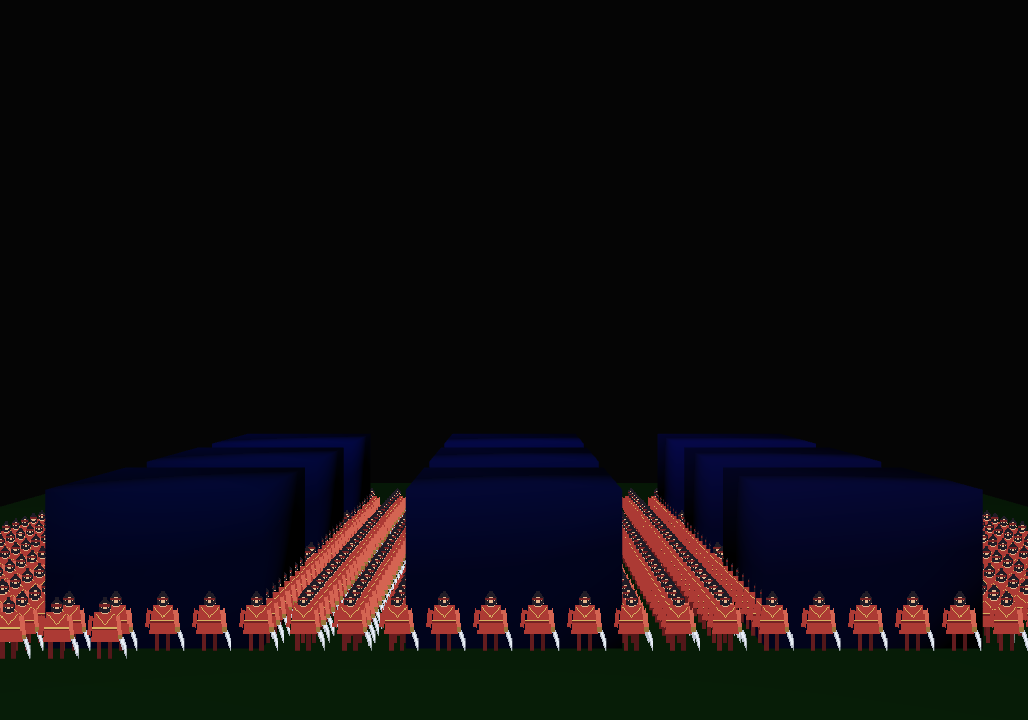
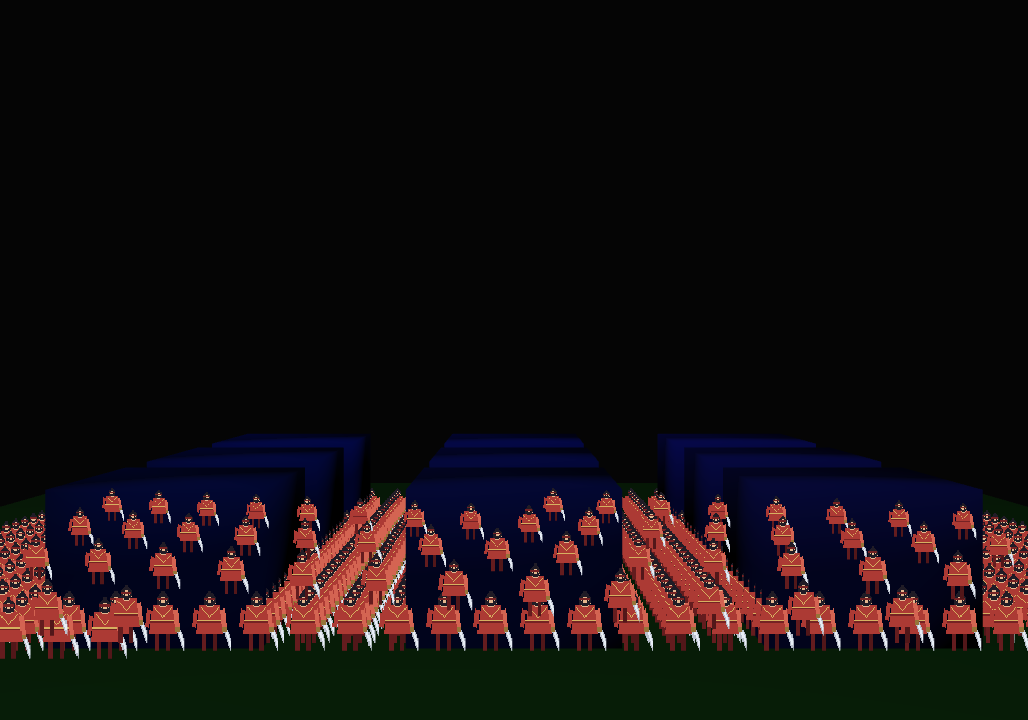
feat(hd2d): add Sprite3D foreground overlay and metrics
sorting_bias < 0 now routes Sprite3D items to a separate foreground batch drawn after the depth-tested pass with depth test/write disabled, so a physically farther foreground layer can cover a closer actor. Also expose extracted Sprite3D count through IBuiltinModules/FramePipeline so dse.metrics.get_sprite_count() reports the full workload. Desktop OpenGL/Vulkan foreground smoke and 1000-sprite perf verified; docs updated.

diff --git a/engine/render/sprite_batch_renderer.cpp b/engine/render/sprite_batch_renderer.cpp
@@ -230,7 +230,8 @@ PipelineHandle SpriteBatchRenderer::PsoForBlend(RhiDevice& device, unsigned int 
     return pso_alpha_;
 }
 
-PipelineHandle SpriteBatchRenderer::PsoForBlend3D(RhiDevice& device, unsigned int blend_mode) {
+PipelineHandle SpriteBatchRenderer::PsoForBlend3D(RhiDevice& device, unsigned int blend_mode,
+                                                  bool foreground) {
     auto make = [&](BlendFactor src, BlendFactor dst) {
         PipelineStateDesc desc{};
         desc.blend_enabled = true;
@@ -238,12 +239,30 @@ PipelineHandle SpriteBatchRenderer::PsoForBlend3D(RhiDevice& device, unsigned in
         desc.blend_dst = dst;
         desc.alpha_blend_src = src;
         desc.alpha_blend_dst = dst;
-        desc.depth_test_enabled = true;
-        desc.depth_write_enabled = true;
+        // Normal Sprite3D items participate in scene depth. Foreground items
+        // are an explicit overlay layer: depth test/write off so a physically
+        // farther canopy/roof can still cover a closer character, matching the
+        // "sorting_bias < 0 => foreground" design contract.
+        desc.depth_test_enabled = !foreground;
+        desc.depth_write_enabled = !foreground;
         desc.depth_func = CompareFunc::Less;
         desc.culling_enabled = false;
         return device.CreatePipelineState(desc);
     };
+    if (foreground) {
+        if (blend_mode == 1u) {  // additive
+            if (!pso3d_fg_additive_) pso3d_fg_additive_ = make(BlendFactor::SrcAlpha, BlendFactor::One);
+            return pso3d_fg_additive_;
+        }
+        if (blend_mode == 2u) {  // multiply
+            if (!pso3d_fg_multiply_) pso3d_fg_multiply_ = make(BlendFactor::DstColor, BlendFactor::Zero);
+            return pso3d_fg_multiply_;
+        }
+        if (!pso3d_fg_alpha_) {
+            pso3d_fg_alpha_ = make(BlendFactor::SrcAlpha, BlendFactor::OneMinusSrcAlpha);
+        }
+        return pso3d_fg_alpha_;
+    }
     if (blend_mode == 1u) {  // additive
         if (!pso3d_additive_) pso3d_additive_ = make(BlendFactor::SrcAlpha, BlendFactor::One);
         return pso3d_additive_;
@@ -259,7 +278,6 @@ PipelineHandle SpriteBatchRenderer::PsoForBlend3D(RhiDevice& device, unsigned in
     }
     return pso3d_alpha_;
 }
-
 void SpriteBatchRenderer::Draw(CommandBuffer& cmd, RhiDevice& device,
                                const std::vector<SpriteDrawItem>& items,
                                const glm::mat4& view, const glm::mat4& projection) {
@@ -402,7 +420,8 @@ void SpriteBatchRenderer::DrawSprite3D(CommandBuffer& cmd, RhiDevice& device,
                                        const std::vector<SpriteDrawItem>& items,
                                        const glm::mat4& view, const glm::mat4& projection,
                                        const glm::vec2& viewport_size,
-                                       const glm::vec3& camera_offset) {
+                                       const glm::vec3& camera_offset,
+                                       bool foreground) {
     if (items.empty()) return;
 
     ShaderHandle sprite_prog = device.GetBuiltinProgram(BuiltinProgram::Sprite3D);
@@ -500,7 +519,7 @@ void SpriteBatchRenderer::DrawSprite3D(CommandBuffer& cmd, RhiDevice& device,
     };
 
     for (const Batch3D& b : batches) {
-        const PipelineHandle pso = PsoForBlend3D(device, b.blend_mode);
+        const PipelineHandle pso = PsoForBlend3D(device, b.blend_mode, foreground);
         cmd.BindPipeline(device.GetGraphicsPipeline(pso, sprite_prog));
         cmd.BindUniformBuffer(0u, ubo);
         cmd.BindTexture(0u, b.texture, TextureDim::Tex2D);

diff --git a/engine/render/passes/sprite3d_pass.cpp b/engine/render/passes/sprite3d_pass.cpp
@@ -87,12 +87,26 @@ void Sprite3DPass::Render(CommandBuffer& cmd, const FrameContext& frame) {
         return a.order_in_layer < b.order_in_layer;
     });
 
+    // sorting_bias < 0 is the explicit foreground overlay contract: these items
+    // are drawn after the depth-tested Sprite3D batch with depth test/write off,
+    // so a physically farther foreground layer can still cover a closer actor.
+    auto normal_end = std::stable_partition(
+        frame_items_.begin(), frame_items_.end(),
+        [](const SpriteDrawItem& item) { return item.sprite3d_sorting_bias >= 0.0f; });
+
     const glm::vec2 viewport(static_cast<float>(Screen::render_width()),
                              static_cast<float>(Screen::render_height()));
-    batch_.DrawSprite3D(cmd, *rhi_device_, frame_items_,
-                        frame.view, frame.projection, viewport, frame.camera_offset);
+    if (frame_items_.begin() != normal_end) {
+        opaque_items_.assign(frame_items_.begin(), normal_end);
+        batch_.DrawSprite3D(cmd, *rhi_device_, opaque_items_,
+                            frame.view, frame.projection, viewport, frame.camera_offset, false);
+    }
+    if (normal_end != frame_items_.end()) {
+        foreground_items_.assign(normal_end, frame_items_.end());
+        batch_.DrawSprite3D(cmd, *rhi_device_, foreground_items_,
+                            frame.view, frame.projection, viewport, frame.camera_offset, true);
+    }
 }
-
 void Sprite3DPass::Shutdown() {
     if (rhi_device_) batch_.Shutdown(*rhi_device_);
 }

diff --git a/engine/render/sprite_batch_renderer.h b/engine/render/sprite_batch_renderer.h
@@ -46,7 +46,8 @@ public:
                       const std::vector<SpriteDrawItem>& items,
                       const glm::mat4& view, const glm::mat4& projection,
                       const glm::vec2& viewport_size,
-                      const glm::vec3& camera_offset);
+                      const glm::vec3& camera_offset,
+                      bool foreground = false);
 
     /// 释放内部 GPU 资源（析构/重置时调用）。
     void Shutdown(RhiDevice& device);
@@ -55,7 +56,7 @@ private:
     void EnsureResources(RhiDevice& device, size_t needed_quads);
     void EnsureFxUbos(RhiDevice& device, size_t needed);
     PipelineHandle PsoForBlend(RhiDevice& device, unsigned int blend_mode);
-    PipelineHandle PsoForBlend3D(RhiDevice& device, unsigned int blend_mode);
+    PipelineHandle PsoForBlend3D(RhiDevice& device, unsigned int blend_mode, bool foreground);
 
     PipelineHandle pso_alpha_;
     PipelineHandle pso_additive_;
@@ -63,6 +64,9 @@ private:
     PipelineHandle pso3d_alpha_;
     PipelineHandle pso3d_additive_;
     PipelineHandle pso3d_multiply_;
+    PipelineHandle pso3d_fg_alpha_;
+    PipelineHandle pso3d_fg_additive_;
+    PipelineHandle pso3d_fg_multiply_;
     TextureHandle white_tex_;
 
     /// 动态顶点缓冲（按需扩容）。每帧覆写 → 每在飞帧缓冲（规避 2 帧在飞下的覆写竞争，D9）。

diff --git a/engine/runtime/frame_pipeline.cpp b/engine/runtime/frame_pipeline.cpp
@@ -44,6 +44,13 @@ FramePipeline::FramePipeline()
     );
 }
 FramePipeline::~FramePipeline() = default;
+int FramePipeline::LastSpriteCount() const {
+    // Generic RHI frame stats do not populate sprite_count; HD-2D also adds the
+    // extracted Sprite3D item count so Lua metrics/tools see the full workload.
+    const int sprite3d = modules_impl_ ? modules_impl_->GetSprite3DCount() : 0;
+    return stats_.LastSpriteCount() + sprite3d;
+}
+
 
 bool FramePipeline::IsRenderThreadActive() const {
     return render_thread_mgr_ && render_thread_mgr_->IsActive();

diff --git a/modules/gameplay_2d/gameplay_2d_module.h b/modules/gameplay_2d/gameplay_2d_module.h
@@ -51,6 +51,7 @@ public:
     TransformSystem& transform_system() { return transform_system_; }
     CameraSystem& camera_system() { return camera_system_; }
     SpriteRenderSystem& sprite_render_system() { return sprite_render_system_; }
+    std::size_t sprite3d_count() const { return sprite3d_pass_.sprite_count(); }
     UIRenderSystem& ui_render_system() { return ui_render_system_; }
     Physics2DSystem& physics2d_system() { return physics2d_system_; }
     AnimationSystem& animation_system() { return animation_system_; }

diff --git a/engine/runtime/i_builtin_modules.h b/engine/runtime/i_builtin_modules.h
@@ -58,6 +58,7 @@ public:
     virtual void RenderScene2D(CommandBuffer& cmd, const dse::render::FrameContext& frame) = 0;
     virtual void RenderUI2D(CommandBuffer& cmd, int w, int h, const glm::mat4& clip) = 0;
     virtual dse::gameplay2d::AudioSystem& GetAudioSystem() = 0;
+    virtual int GetSprite3DCount() const = 0;
 
     // ---- MeshRenderSystem ----
     virtual void InitMeshSystem(AssetManager* asset_mgr) = 0;

diff --git a/modules/runtime_bridge/builtin_modules_impl.cpp b/modules/runtime_bridge/builtin_modules_impl.cpp
@@ -48,6 +48,10 @@ dse::gameplay2d::AudioSystem& BuiltinModulesImpl::GetAudioSystem() {
     return gameplay2d_module_.audio_system();
 }
 
+int BuiltinModulesImpl::GetSprite3DCount() const {
+    return static_cast<int>(gameplay2d_module_.sprite3d_count());
+}
+
 // ============================================================
 // MeshRenderSystem
 // ============================================================

diff --git a/modules/runtime_bridge/builtin_modules_impl.h b/modules/runtime_bridge/builtin_modules_impl.h
@@ -40,6 +40,7 @@ public:
     void RenderScene2D(CommandBuffer& cmd, const dse::render::FrameContext& frame) override;
     void RenderUI2D(CommandBuffer& cmd, int w, int h, const glm::mat4& clip) override;
     dse::gameplay2d::AudioSystem& GetAudioSystem() override;
+    int GetSprite3DCount() const override;
 
     // ---- MeshRenderSystem ----
     void InitMeshSystem(AssetManager* asset_mgr) override;

diff --git a/engine/runtime/frame_pipeline.h b/engine/runtime/frame_pipeline.h
@@ -209,7 +209,7 @@ public:
      * @brief 获取上一帧提交渲染的精灵总数
      * @return 精灵数量
      */
-    int LastSpriteCount() const { return stats_.LastSpriteCount(); }
+    int LastSpriteCount() const;
 
     /**
      * @brief 注入用于修改底层平台窗口标题的回调函数

diff --git a/engine/render/passes/sprite3d_pass.h b/engine/render/passes/sprite3d_pass.h
@@ -47,6 +47,8 @@ private:
     RhiDevice* rhi_device_ = nullptr;
     SpriteBatchRenderer batch_;
     std::vector<SpriteDrawItem> frame_items_;
+    std::vector<SpriteDrawItem> opaque_items_;
+    std::vector<SpriteDrawItem> foreground_items_;
 };
 
 } // namespace render

diff --git a/docs/design/HD2D_IMPLEMENTATION_PLAN.md b/docs/design/HD2D_IMPLEMENTATION_PLAN.md
@@ -161,7 +161,7 @@ ecs.set_post_process_tilt_shift(e, enabled, focus, range, blur)
 | 阶段 | 任务 | 关键文件 | 验收 | 估时 |
 |---|---|---|---|---|
 | **[x] M1 精灵进 3D** | `Sprite3DComponent`+billboard shader+`Sprite3DPass`(depth test/write+alpha test)+Lua 绑定+最小 demo | `engine/ecs/components_3d_render.h`、`engine/render/shaders/src/sprite3d.*`、`engine/render/passes/`、`engine/scripting/lua/bindings/`、`tools/codegen/binding_defs.json`、`modules/gameplay_3d/rendering/mesh_render_system.cpp` | 台式机 GL 真机 behind 房子 mask 内=0/外=8121、front 内=54376；Vulkan 真机 behind 内=0、front 内=52939；D3D11 编译同步但真机 RHI 设备初始化失败 | 12 周 |
-| **[~] M2 排序/批处理** | view-space depth bucket 排序、`sorting_bias`、纹理合批、三后端管线状态 | `engine/render/passes/sprite3d_pass.cpp`、`engine/render/sprite_batch_renderer.*`、三后端 executor | 1000 精灵 + 10 盒 GL 真机 `draw_calls=6 < 100`；`sorting_bias` 仅排序 key，未实现真实前景遮挡；纹理合批/前景 pass 继续推进 | 35 天 |
+| **[x] M2 排序/批处理** | view-space depth bucket、`sorting_bias` foreground pass、Sprite3D metrics、纹理合批、三后端管线状态 | `engine/render/passes/sprite3d_pass.*`、`engine/render/sprite_batch_renderer.*`、`engine/runtime/frame_pipeline.cpp`、`modules/runtime_bridge/*`、三后端 executor | 1000 精灵 + 10 盒 GL 真机 `draw_calls=7 < 100`、`get_sprite_count()=1000`；foreground 专项：normal blue=0、bias<0 blue>0；Vulkan smoke 通过 | 35 天 |
 | **M3 光照/阴影** | `SPRITE3D_LIT`、法线贴图、CSM 接收、点/聚光、emissiveBloom、接地阴影 | `engine/render/shaders/src/sprite3d_lit.*`、`clustered` 光路、`shadow` pass | 灯笼照亮角色与地面、树影落在角色上 | 12 周 |
 | **M4 后处理/相机** | 精灵写深度DoF、Tilt-shift、体积光适配、正交/弱透视 3D 相机 | `builtin_passes_postfx.cpp`、`camera` 组件/控制器 | 移轴景深生效且 UI 不受影响 | 1 周 |
 | **M5 资产/工具** | `.dsprite.json`、AssetBuilder、程序化 3D 地形/道具导出、编辑器预览 | `engine/assets/`、`apps/tools/asset_builder/`、`templates/hd2d_wuxia/tools/` | `dse new hd2d` 直接产出 3D 地形+精灵工程 | 1 周 |

diff --git a/docs/design/HD2D_M1M2_REPORT.md b/docs/design/HD2D_M1M2_REPORT.md
@@ -54,10 +54,13 @@
 
 ### 0.5 M2 性能与排序
 
-- `_sprite3d_perf_test.lua` GL 真机：1000 个 Sprite3D + 10 个盒子，`dse.metrics.get_draw_calls()=6 < 100`。
-- `dse.metrics.get_sprite_count()=0`：当前 metrics 只统计 2D sprite 路径，未统计 Sprite3D；报告中的精灵数来自 Lua 脚本自身计数。
-- `Sprite3DPass` 排序键为 `(depth_bucket, texture, blend)`，bucket 已改为 camera-relative/view-space depth（渲染线程用 `frame.view - camera_offset` 计算），不再使用绝对 world Z。
-- `sorting_bias` 仍只影响排序 key，不是真实深度偏移。物理上更远的前景即使 `sorting_bias < 0`，只要 depth test/write 开启，仍会被更近的角色 depth-reject；屋檐/树冠盖住角色需要独立前景 pass 或真实深度偏移（shader depth bias / 分层 pass）。这是 M2 未完成项，不应伪装为已支持。
+- `_sprite3d_perf_test.lua` GL 真机：1000 个 Sprite3D + 10 个盒子，`dse.metrics.get_draw_calls()=7 < 100`，`dse.metrics.get_sprite_count()=1000`。
+- Sprite3D 数量已接入 `FramePipeline::LastSpriteCount()`：由 `IBuiltinModules::GetSprite3DCount()` 从 `Gameplay2DModule` / `Sprite3DPass` 的提取数量汇总。
+- `Sprite3DPass` 排序键为 `(depth_bucket, texture, blend)`，bucket 使用 camera-relative/view-space depth（`frame.view` + `camera_offset`），不再使用绝对 world Z。
+- `sorting_bias < 0` 现在进入独立 foreground overlay batch：在正常 depth-tested Sprite3D 之后绘制，depth test/write 关闭，所以物理更远的前景也能覆盖更近角色。专项测试：普通层 far-blue 被 near-red 完全遮挡（blue=0）；far `sorting_bias=-1` 时 blue>0、red 下降。
+- 专项截图：`docs/design/hd2d_m1m2_shots/desktop/m2_fg_normal.png`、`m2_fg_foreground.png`。
+- Vulkan foreground smoke：同 `far_bias=-1` 场景，`exit=0`，red=18090、blue=693，说明新 foreground PSO 在 Vulkan 后端同样生效。
+- 剩余限制：foreground overlay 是整层语义，会覆盖其后的 3D 几何；细粒度前景遮罩、半透明 Sprite3D 分层排序仍是后续项。
 
 ### 0.6 回归
 
